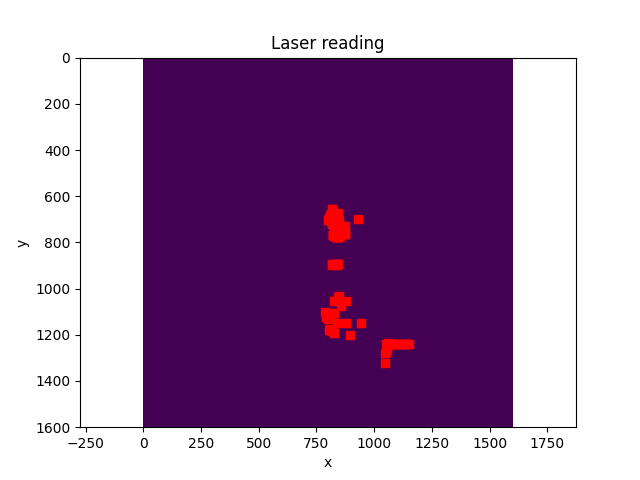
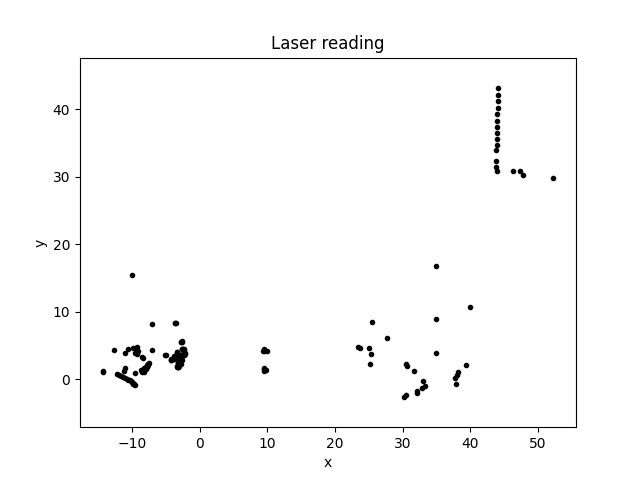
map first finished. results commit

diff --git a/ECE-276A/Project-2/code/pr2_utils.py b/ECE-276A/Project-2/code/pr2_utils.py
@@ -157,100 +157,97 @@ def test_bresenham2D():
 
 
 def test_mapCorrelation():
-    _, lidar_data = read_data_from_csv('/home/wf1497c/ML/UCSD/ECE-276A/Project-2/Lidar/lidar.csv')
-    angles = np.linspace(-5, 185, 286) / 180 * np.pi
-    ranges = lidar_data[0, :]
+  _, lidar_data = read_data_from_csv('Lidar/lidar.csv')
+  angles = np.linspace(-5, 185, 286) / 180 * np.pi
+  ranges = lidar_data[0, :]
 
-    # take valid indices
-    indValid = [range < 80 and range > 0.1 for range in ranges] ###
-    ranges = ranges[indValid]
-    angles = angles[indValid]
+  # take valid indices
+  indValid = np.logical_and((ranges < 80),(ranges> 0.1))
+  ranges = ranges[indValid]
+  angles = angles[indValid]
 
-    # init MAP
-    MAP = {}
-    MAP['res']   = 0.1 #meters
-    MAP['xmin']  = -80  #meters
-    MAP['ymin']  = -80
-    MAP['xmax']  =  80
-    MAP['ymax']  =  80 
-    MAP['sizex']  = int(np.ceil((MAP['xmax'] - MAP['xmin']) / MAP['res'] + 1)) #cells
-    MAP['sizey']  = int(np.ceil((MAP['ymax'] - MAP['ymin']) / MAP['res'] + 1))
-    MAP['map'] = np.zeros((MAP['sizex'],MAP['sizey']),dtype=np.int8) #DATA TYPE: char or int8
-    
-    #import pdb
-    #pdb.set_trace()
-    
-    # xy position in the sensor frame
-    xs0 = np.array([ranges*np.cos(angles)])
-    ys0 = np.array([ranges*np.sin(angles)])
-    
-    # convert position in the map frame here 
-    xs0_w, ys0_w, _ = transformation.lidarToWorld(xs0, ys0, 0, 0, 0)
-    xs0_m, ys0_m = transformation.worldToMap(MAP, xs0_w, ys0_w)
-    Y = np.stack((xs0_m,ys0_m))
-    
-    # convert from meters to cells
-    xis = np.ceil((xs0_m - MAP['xmin']) / MAP['res'] ).astype(np.int16)-1
-    yis = np.ceil((ys0_m - MAP['ymin']) / MAP['res'] ).astype(np.int16)-1
-    
-    # build an arbitrary map 
-    indGood = np.logical_and(np.logical_and(np.logical_and((xis > 1), (yis > 1)), (xis < MAP['sizex'])), (yis < MAP['sizey']))
-    MAP['map'][xis[indGood],yis[indGood]]=1
-        
-    x_im = np.arange(MAP['xmin'],MAP['xmax']+MAP['res'],MAP['res']) #x-positions of each pixel of the map
-    y_im = np.arange(MAP['ymin'],MAP['ymax']+MAP['res'],MAP['res']) #y-positions of each pixel of the map
-
-    x_range = np.arange(-80,80,0.1)
-    y_range = np.arange(-80,80,0.1)
-    #x_range = np.arange(-0.4,0.4+0.1,0.1)
-    #y_range = np.arange(-0.4,0.4+0.1,0.1)
-    
-    print("Testing map_correlation with {}x{} cells".format(MAP['sizex'],MAP['sizey']))
-    ts = tic()
-    c = mapCorrelation(MAP['map'],x_im,y_im,Y,x_range,y_range)
-    print(c)
-    toc(ts,"Map Correlation")
-
-    c_ex = np.array([[ 4.,  6.,  6.,  5.,  8.,  6.,  3.,  2.,  0.],
-                    [ 7.,  5., 11.,  8.,  5.,  8.,  5.,  4.,  2.],
-                    [ 5.,  7., 11.,  8., 12.,  5.,  2.,  1.,  5.],
-                    [ 6.,  8., 13., 66., 33.,  4.,  3.,  3.,  0.],
-                    [ 5.,  9.,  9., 63., 55., 13.,  5.,  7.,  4.],
-                    [ 1.,  1., 11., 15., 12., 13.,  6., 10.,  7.],
-                    [ 2.,  5.,  7., 11.,  7.,  8.,  8.,  6.,  4.],
-                    [ 3.,  6.,  9.,  8.,  7.,  7.,  4.,  4.,  3.],
-                    [ 2.,  3.,  2.,  6.,  8.,  4.,  5.,  5.,  0.]])
+  # init MAP
+  MAP = {}
+  MAP['res']   = 0.1 #meters
+  MAP['xmin']  = -50  #meters
+  MAP['ymin']  = -50
+  MAP['xmax']  =  50
+  MAP['ymax']  =  50 
+  MAP['sizex']  = int(np.ceil((MAP['xmax'] - MAP['xmin']) / MAP['res'] + 1)) #cells
+  MAP['sizey']  = int(np.ceil((MAP['ymax'] - MAP['ymin']) / MAP['res'] + 1))
+  MAP['map'] = np.zeros((MAP['sizex'],MAP['sizey']),dtype=np.int8) #DATA TYPE: char or int8
+  
+  #import pdb
+  #pdb.set_trace()
+  
+  # xy position in the sensor frame
+  xs0 = ranges*np.cos(angles)
+  ys0 = ranges*np.sin(angles)
+  
+  # convert position in the map frame here 
+  Y = np.stack((xs0,ys0))
+  
+  # convert from meters to cells
+  xis, yis, _ = transformation.lidarToWorld(np.array([xs0]), np.array([ys0]),0,0,0)
+  xis, yis = transformation.worldToMap(MAP, xis, yis)
+  #xis = np.ceil((xs0 - MAP['xmin']) / MAP['res'] ).astype(np.int16)-1
+  #yis = np.ceil((ys0 - MAP['ymin']) / MAP['res'] ).astype(np.int16)-1
+  
+  # build an arbitrary map 
+  indGood = np.logical_and(np.logical_and(np.logical_and((xis > 1), (yis > 1)), (xis < MAP['sizex'])), (yis < MAP['sizey']))
+  MAP['map'][xis[indGood],yis[indGood]]=1
       
-    if np.sum(c==c_ex) == np.size(c_ex):
-      print("...Test passed.")
-    else:
-      print("...Test failed. Close figures to continue tests.")	
+  x_im = np.arange(MAP['xmin'],MAP['xmax']+MAP['res'],MAP['res']) #x-positions of each pixel of the map
+  y_im = np.arange(MAP['ymin'],MAP['ymax']+MAP['res'],MAP['res']) #y-positions of each pixel of the map
 
-    #plot original lidar points
-    fig1 = plt.figure()
-    plt.imshow(np.ones(MAP['map'].shape) * 255)
-    plt.scatter(xs0_m,ys0_m,c='r', marker="s")
-    plt.xlabel("x")
-    plt.ylabel("y")
-    plt.title("Laser reading")
-    plt.axis('equal')
-    plt.savefig("Laser reading")
+  x_range = np.arange(-0.4,0.4+0.1,0.1)
+  y_range = np.arange(-0.4,0.4+0.1,0.1)
+  
+  print("Testing map_correlation with {}x{} cells".format(MAP['sizex'],MAP['sizey']))
+  ts = tic()
+  c = mapCorrelation(MAP['map'],x_im,y_im,Y,x_range,y_range)
+  print(c)
+  toc(ts,"Map Correlation")
 
-    #plot map
-    fig2 = plt.figure()
-    plt.imshow(MAP['map'],cmap="hot")
-    plt.title("Occupancy grid map")
-    plt.savefig("Occupancy grid map")
+  c_ex = np.array([[ 4.,  6.,  6.,  5.,  8.,  6.,  3.,  2.,  0.],
+                   [ 7.,  5., 11.,  8.,  5.,  8.,  5.,  4.,  2.],
+                   [ 5.,  7., 11.,  8., 12.,  5.,  2.,  1.,  5.],
+                   [ 6.,  8., 13., 66., 33.,  4.,  3.,  3.,  0.],
+                   [ 5.,  9.,  9., 63., 55., 13.,  5.,  7.,  4.],
+                   [ 1.,  1., 11., 15., 12., 13.,  6., 10.,  7.],
+                   [ 2.,  5.,  7., 11.,  7.,  8.,  8.,  6.,  4.],
+                   [ 3.,  6.,  9.,  8.,  7.,  7.,  4.,  4.,  3.],
+                   [ 2.,  3.,  2.,  6.,  8.,  4.,  5.,  5.,  0.]])
     
-    #plot correlation
-    fig3 = plt.figure()
-    ax3 = fig3.gca(projection='3d')
-    X, Y = np.meshgrid(np.arange(0,1600), np.arange(0,1600))
-    ax3.plot_surface(X,Y,c,linewidth=0,cmap=plt.cm.jet, antialiased=False,rstride=1, cstride=1)
-    plt.title("Correlation coefficient map")
-    plt.savefig("Correlation coefficient map")
+  if np.sum(c==c_ex) == np.size(c_ex):
+	  print("...Test passed.")
+  else:
+	  print("...Test failed. Close figures to continue tests.")	
 
-    plt.show()
+  #plot original lidar points
+  fig1 = plt.figure()
+  plt.plot(xs0,ys0,'.k')
+  plt.xlabel("x")
+  plt.ylabel("y")
+  plt.title("Laser reading")
+  plt.axis('equal')
+  plt.savefig('Laser reading')
+
+  #plot map
+  fig2 = plt.figure()
+  plt.imshow(MAP['map'],cmap="hot")
+  plt.title("Occupancy grid map")
+  plt.savefig("Occupancy grid map")
+  
+  #plot correlation
+  fig3 = plt.figure()
+  ax3 = fig3.gca(projection='3d')
+  X, Y = np.meshgrid(np.arange(0,9), np.arange(0,9))
+  ax3.plot_surface(X,Y,c,linewidth=0,cmap=plt.cm.jet, antialiased=False,rstride=1, cstride=1)
+  plt.title("Correlation coefficient map")
+  plt.savefig("Correlation coefficient map")
+
+  plt.show()
   
   
 def show_lidar():

diff --git a/ECE-276A/Project-2/code/SLAM.py b/ECE-276A/Project-2/code/SLAM.py
@@ -4,6 +4,7 @@ import cv2
 import os
 import pandas as pd
 import matplotlib.pyplot as plt
+from torch import float64
 from pr2_utils import read_data_from_csv
 import math
 import transformation
@@ -142,7 +143,7 @@ class getData():
 
 
     def initializeSLAM(self, num_particles):
-        MAP = occupancy_grid_map.initializeMap(0.1,-80,-80,80,80)
+        MAP = occupancy_grid_map.initializeMap(0.1,-20,-20,200,200) # res, xmin, ymin, xmax, ymax
         particles = particle.initializeParticles(num_particles)
         TRAJECTORY_w = {}
         TRAJECTORY_w['particle'] = []
@@ -155,13 +156,15 @@ class getData():
 
 if __name__ == '__main__':
     data = getData()
-    MAP, particles, TRAJECTORY_w, TRAJECTORY_m = data.initializeSLAM(1)
+    MAP, particles, TRAJECTORY_w, TRAJECTORY_m = data.initializeSLAM(2)
+    time_all = 500
 
-    for i in range(1):#len(data.lidar_data)):
+    for i in range(time_all):#len(data.lidar_data)):
         lidar_range = data.lidar_data[i, :]
         lidar_angle = np.linspace(-5, 185, 286) / 180 * np.pi
 
         # Remove scan points that are too close or too far
+        #lidar_range[lidar_range == 0] = 79 # !!! 
         indValid = [range < 80 and range > 0.1 for range in lidar_range]
         lidar_range = lidar_range[indValid]
         lidar_angle = lidar_angle[indValid]
@@ -187,34 +190,46 @@ if __name__ == '__main__':
             TRAJECTORY_m['odometry'].append(np.array([o_x_m, o_y_m, TRAJECTORY_w['odometry'][i][2]]))
 
         x_l, y_l = np.double(transformation.polar2cart(lidar_range, lidar_angle))
-        x_cur, y_cur, yaw_cur = TRAJECTORY_w['particle'][0][0], TRAJECTORY_w['particle'][0][1], TRAJECTORY_w['particle'][0][2]
-        x_w, y_w, _ = transformation.lidarToWorld(x_l, y_l, x_cur, y_cur, yaw_cur)
-        x_m, y_m = transformation.worldToMap(MAP, x_w, y_w)
+        x_w, y_w, _ = transformation.lidarToWorld(x_l, y_l, pose[0], pose[1], pose[2])
         
         if(i == 0):
-            occupancy_grid_map.updateMap(MAP, x_w, y_w, x_cur, y_cur)
+            occupancy_grid_map.updateMap(MAP, x_w, y_w, pose[0], pose[1])
 
             plt.imshow(MAP['plot'])
             plt.savefig('map.png')
 
         # particle filter steps. Resample is called in the updateParticles() function
-        #particle.predictParticles(particles, delta_pose[0], delta_pose[1], delta_pose[2], pose[0], pose[1], pose[2])
-        #particle.updateParticles(particles, MAP, x_l, y_l)
-        #print("prediction done")
+        particle.predictParticles(particles, delta_pose[0], delta_pose[1], delta_pose[2], pose[0], pose[1], pose[2])
+        particle.updateParticles(particles, MAP, x_l, y_l)
+
+        print("Timestep:" + str(i+1) + "/" + str(time_all))
         # update trajectories again
-        #pose = particles['poses'][np.argmax(particles['weights']), :]
+        pose = particles['poses'][np.argmax(particles['weights']), :]
             
-        #TRAJECTORY_w['particle'].append(pose)
-        #x_m, y_m = transformation.worldToMap(MAP, TRAJECTORY_w['particle'][i][0], TRAJECTORY_w['particle'][i][1])
-        #TRAJECTORY_m['particle'].append(np.array([x_m, y_m, pose[2]]))
+        TRAJECTORY_w['particle'].append(pose)
+        p_x_m, p_y_m = transformation.worldToMap(MAP, TRAJECTORY_w['particle'][i][0], TRAJECTORY_w['particle'][i][1])
+        TRAJECTORY_m['particle'].append(np.array([p_x_m, p_y_m, pose[2]]))
         
         # update map based on particle's view of lidar scan
-        #occupancy_grid_map.updateMap(MAP, x_w, y_w, pose[0], pose[1])
+        occupancy_grid_map.updateMap(MAP, x_w, y_w, pose[0], pose[1])
+        print(len(TRAJECTORY_m['particle'][0]))
 
-
-        #if i % 1000 == 0:
-        #    print(x_m)
-            #print(TRAJECTORY_m['odometry'][i][0], TRAJECTORY_m['odometry'][i][1])
+        if (i % 100 == 0 or i == len(lidar_range) - 1):
+            plt.imshow(MAP['plot'])
+            plt.scatter(np.asarray(TRAJECTORY_m['particle'])[:].T[0], np.asarray(TRAJECTORY_m['particle'])[:].T[1], c='r', marker="s", s=2)
+            plt.scatter(np.asarray(TRAJECTORY_m['odometry'])[:].T[0], np.asarray(TRAJECTORY_m['odometry'])[:].T[1], c='b', marker="s", s=2)
+            plt.title(" trajectory after " + str(i) + " scans")
+            filename = "results/trajectory/s" + str(i) + "p" + str(5) + ".png"
+            plt.savefig(filename, dpi=300, bbox_inches='tight')                
+            
+            plt.imshow(MAP['map'])
+            plt.title(" log-odds after " + str(i) + " scans")
+            filename = "results/log-odds/lo-d" + "s" + str(i) + "p" + str(5) + ".png"
+            plt.savefig(filename, dpi=300, bbox_inches='tight')                
+            
+            #print("occupancy grid and log-odds at scan =", i + 1, "of", len(lidar_range))
+            #print("current particle position:", TRAJECTORY_m['particle'][i].T[0][0], ",", TRAJECTORY_m['particle'][i].T[1][0])
+            #print("current odometry position:", TRAJECTORY_m['odometry'][i].T[0][0], ",", TRAJECTORY_m['odometry'][i].T[1][0])        
 
     traj_x_m = []
     traj_y_m = []

diff --git a/ECE-276A/Project-2/code/occupancy_grid_map.py b/ECE-276A/Project-2/code/occupancy_grid_map.py
@@ -57,9 +57,6 @@ def updateMap(MAP, x_w, y_w, x_cur, y_cur):
     
     # transform particles positions into map coordinates
     x_cur_m, y_cur_m = transformation.worldToMap(MAP, x_cur, y_cur)
-    #plt.imshow(MAP['plot'])
-    #plt.scatter(x_m, y_m, c='r', marker="s")
-    #plt.savefig('test.jpg')
     
     # check whether it's out of range of image size
     indvalid = np.logical_and(np.logical_and(np.logical_and((x_m > 1), (y_m > 1)), (x_m < MAP['sizex'])),(y_m < MAP['sizey']))
@@ -84,10 +81,6 @@ def updateMap(MAP, x_w, y_w, x_cur, y_cur):
         frees = bresenham2D(x_cur_m, y_cur_m, hit_x_m, hit_y_m)
         MAP['map'][frees[1,:].astype(int),frees[0,:].astype(int)] += MAP['free']
     
-    #MAP['map'] += free_grid 
-    #plt.imshow(free_grid)
-    #plt.savefig("free_grid")
-    
     # prevent overconfidence
     MAP['map'][MAP['map'] > MAP['confidence_limit']] = MAP['confidence_limit']
     MAP['map'][MAP['map'] < -MAP['confidence_limit']] = -MAP['confidence_limit']
@@ -95,14 +88,13 @@ def updateMap(MAP, x_w, y_w, x_cur, y_cur):
     # update plot
     occupied_grid = MAP['map'] > MAP['occupied_thresh']
     free_grid = MAP['map'] < MAP['free_thresh']
-    plt.imshow(free_grid)
-    plt.savefig("free_grid")
-    #plt.imshow(occupied_grid)
-    #plt.savefig("occupied_grid")
     
     MAP['plot'][occupied_grid] = [0, 0, 0]
     MAP['plot'][free_grid] = [255, 255, 255] 
     MAP['plot'][np.logical_and(np.logical_not(free_grid), np.logical_not(occupied_grid))] = [127, 127, 127]
+    #plt.imshow(MAP['plot'])
+    #plt.savefig('occupied_grid')
+    #plt.close()
     
-    x_m, y_m = transformation.worldToMap(MAP, x_w, y_w)
+    #x_m, y_m = transformation.worldToMap(MAP, x_w, y_w)
     MAP['plot'][y_m, x_m] = [255, 0, 0]    # plot latest lidar scan hits

diff --git a/ECE-276A/Project-2/code/transformation.py b/ECE-276A/Project-2/code/transformation.py
@@ -89,7 +89,6 @@ def lidarToWorld(x_l, y_l, x_cur, y_cur, yaw_cur): ###
     w_T_l = lidarToWorldTransform(x_cur,y_cur,yaw_cur)
     coordinates_l = np.vstack((np.vstack((x_l, y_l)), np.zeros((1, x_l.shape[1])), np.ones((1, x_l.shape[1]))))
     coordinates_w = w_T_l.dot(coordinates_l)
-    origin = w_T_l.dot(np.array([0,0,0,1]))
 
     x_w = coordinates_w[0, :]
     y_w = coordinates_w[1, :]
